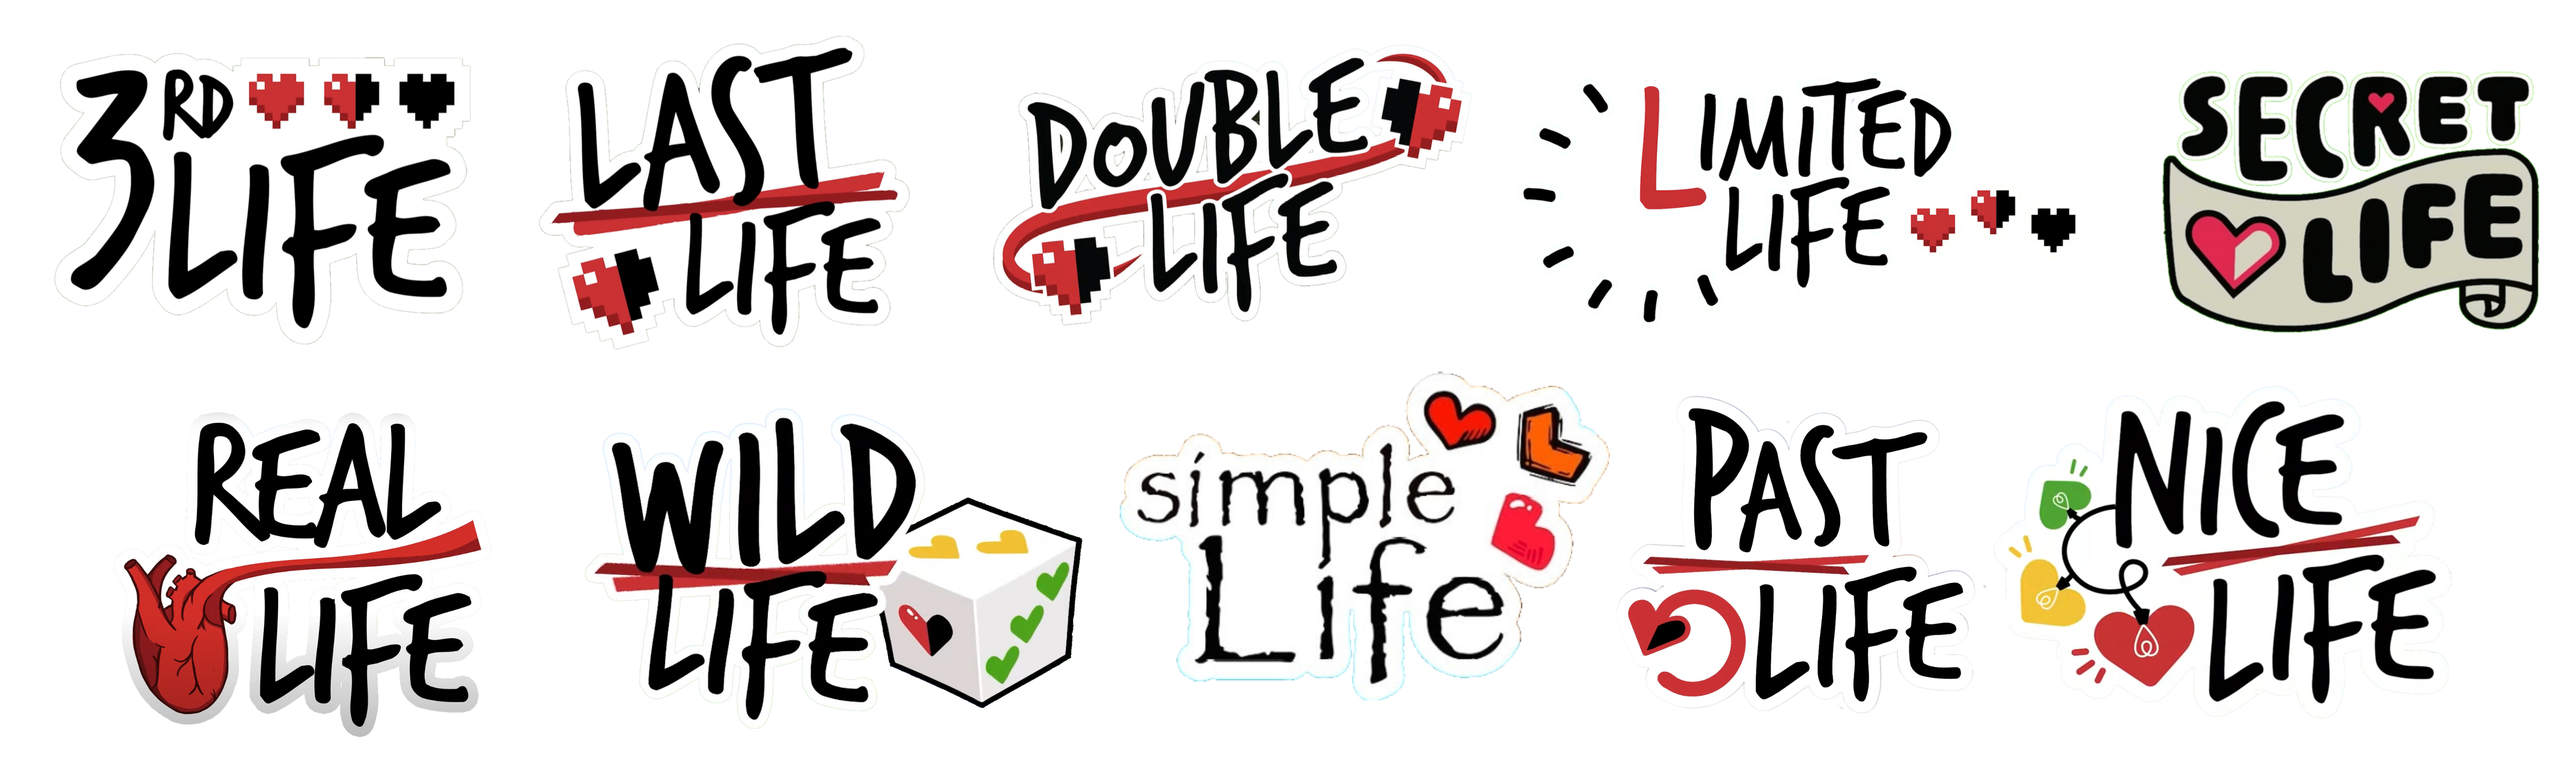
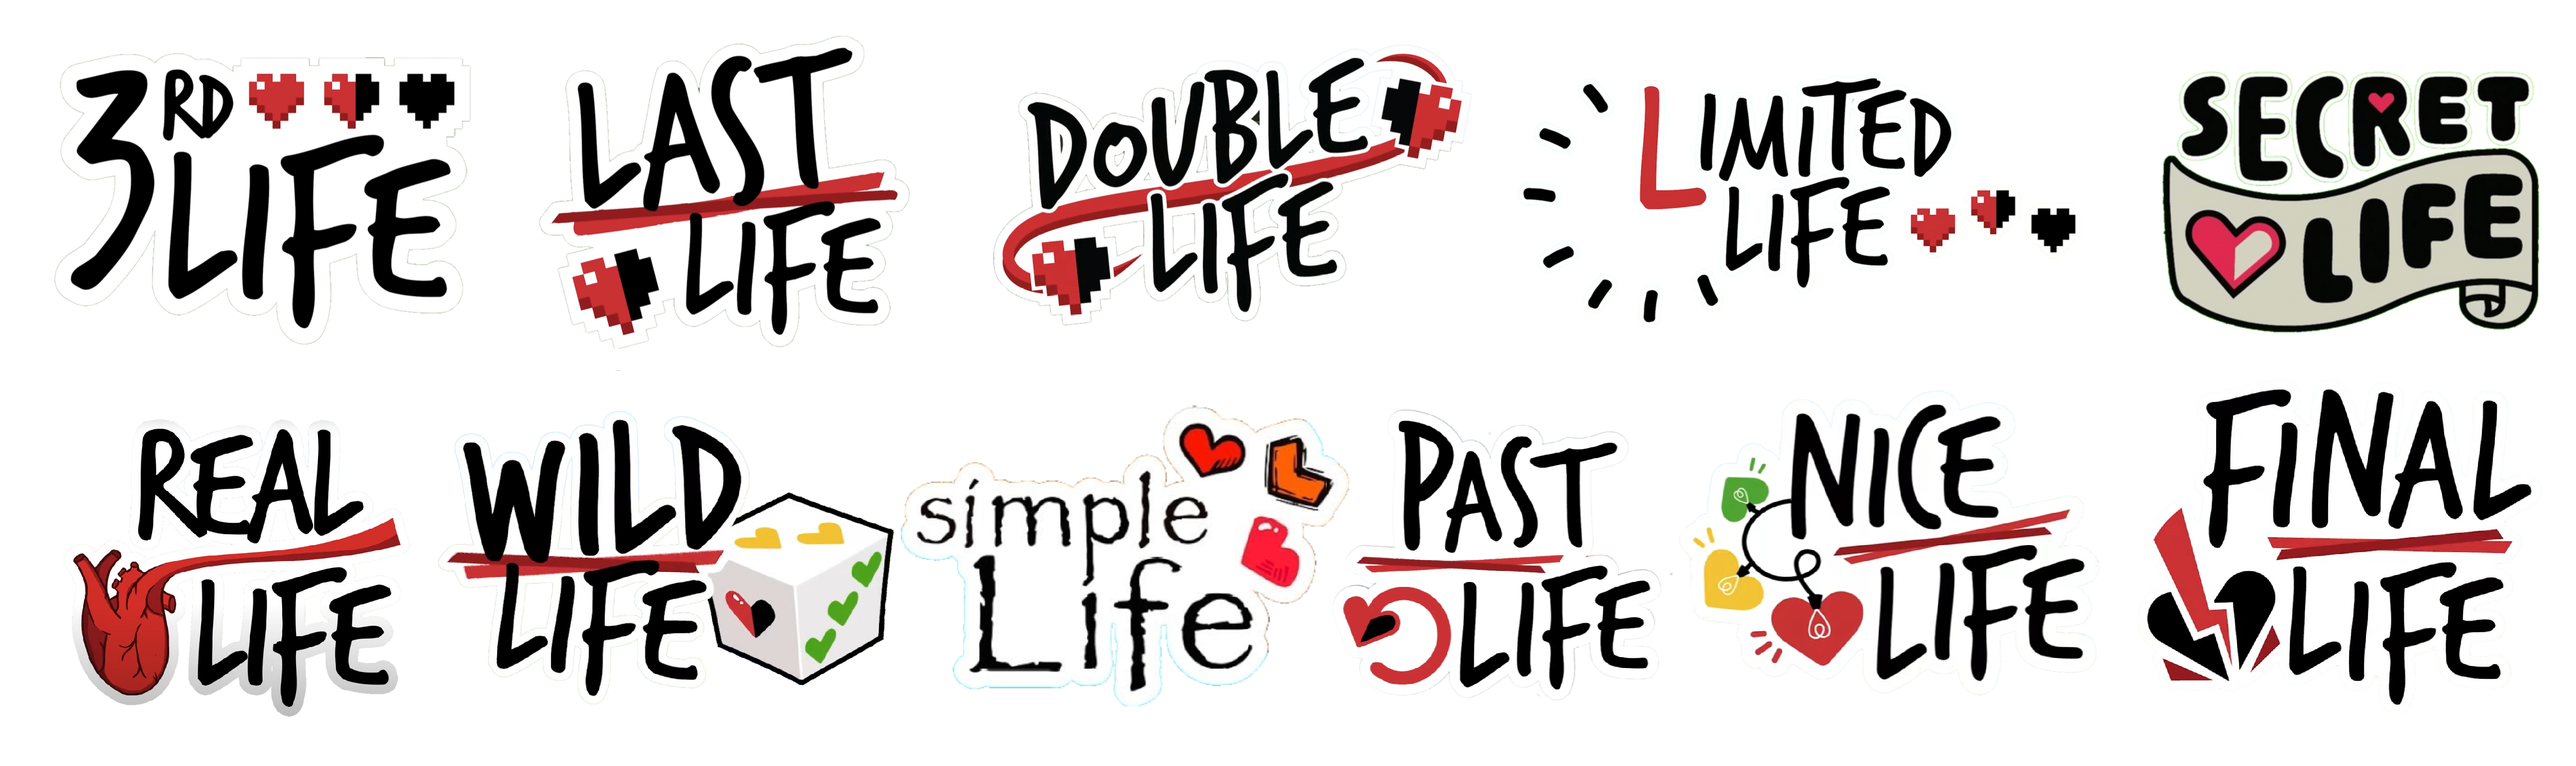
Final Life initial

Changed region(s): [[0.0311, 0.4987, 0.9954, 0.9662]]

diff --git a/src/main/java/net/mat0u5/lifeseries/seasons/season/finallife/FinalLifeConfig.java b/src/main/java/net/mat0u5/lifeseries/seasons/season/finallife/FinalLifeConfig.java
@@ -1,0 +1,66 @@
+package net.mat0u5.lifeseries.seasons.season.finallife;
+
+import net.mat0u5.lifeseries.config.SeasonConfig;
+import net.mat0u5.lifeseries.seasons.season.Seasons;
+
+import java.util.List;
+
+public class FinalLifeConfig extends SeasonConfig {
+	public static final List<String> BLACKLISTED_ITEMS = List.of(
+			"lectern",
+			"bookshelf",
+			//? if >= 1.21
+			"mace",
+			"end_crystal",
+			"#minecraft:head_armor",
+			//? if >= 1.21.11
+			"#minecraft:spears",
+			"elytra"
+	);
+
+	public static final List<String> BLACKLISTED_BLOCKS = List.of(
+			"lectern",
+			"bookshelf"
+	);
+	public static final List<String> CLAMPED_ENCHANTMENTS = List.of(
+			"sharpness",
+			"smite",
+			"bane_of_arthropods",
+			"fire_aspect",
+			"knockback",
+			//? if <= 1.20.3 {
+			//"sweeping",
+			//?} else {
+			"sweeping_edge",
+			//?}
+
+			"power",
+			"punch",
+
+			"protection",
+			"projectile_protection",
+			"blast_protection",
+			"fire_protection",
+			"feather_falling",
+			"thorns",
+
+			//? if >= 1.21 {
+			"breach",
+			"density",
+			"wind_burst",
+			//?}
+
+			"multishot",
+			"piercing",
+			"quick_charge"
+	);
+
+	protected FinalLifeConfig() {
+		super(Seasons.FINAL_LIFE);
+		BLACKLIST_ITEMS.defaultValue(BLACKLISTED_ITEMS);
+		BLACKLIST_BLOCKS.defaultValue(BLACKLISTED_BLOCKS);
+		BLACKLIST_CLAMPED_ENCHANTS_LEVEL_1.defaultValue(CLAMPED_ENCHANTMENTS);
+		BLACKLIST_RECIPES.defaultValue(List.of("enchanting_table"));
+		DEFAULT_LIVES.defaultValue(6);
+	}
+}

diff --git a/src/main/java/net/mat0u5/lifeseries/seasons/season/Seasons.java b/src/main/java/net/mat0u5/lifeseries/seasons/season/Seasons.java
@@ -3,6 +3,7 @@ package net.mat0u5.lifeseries.seasons.season;
 import net.mat0u5.lifeseries.seasons.season.aprilfools.reallife.RealLife;
 import net.mat0u5.lifeseries.seasons.season.aprilfools.simplelife.SimpleLife;
 import net.mat0u5.lifeseries.seasons.season.doublelife.DoubleLife;
+import net.mat0u5.lifeseries.seasons.season.finallife.FinalLife;
 import net.mat0u5.lifeseries.seasons.season.lastlife.LastLife;
 import net.mat0u5.lifeseries.seasons.season.limitedlife.LimitedLife;
 import net.mat0u5.lifeseries.seasons.season.nicelife.NiceLife;
@@ -28,6 +29,7 @@ public enum Seasons {
     WILD_LIFE("Wild Life", "wildlife"),
     PAST_LIFE("Past Life", "pastlife"),
     NICE_LIFE("Nice Life", "nicelife"),
+    FINAL_LIFE("Final Life", "finallife"),
 
     REAL_LIFE("Real Life", "reallife"),
     SIMPLE_LIFE("Simple Life", "simplelife");
@@ -57,6 +59,7 @@ public enum Seasons {
         if (this == WILD_LIFE) return new WildLife();
         if (this == PAST_LIFE) return new PastLife();
         if (this == NICE_LIFE) return new NiceLife();
+        if (this == FINAL_LIFE) return new FinalLife();
 
         if (this == REAL_LIFE) return new RealLife();
         if (this == SIMPLE_LIFE) return new SimpleLife();
@@ -70,6 +73,7 @@ public enum Seasons {
     public boolean requiresClient() {
         if (this == WILD_LIFE) return true;
         if (this == NICE_LIFE) return true;
+        if (this == FINAL_LIFE) return true;
         return false;
     }
 

diff --git a/src/main/java/net/mat0u5/lifeseries/seasons/util/LivesManager.java b/src/main/java/net/mat0u5/lifeseries/seasons/util/LivesManager.java
@@ -137,6 +137,14 @@ public class LivesManager {
     }
 
     public int defaultTeamCanKill(String teamName) {
+        if (LifeSeries.isSeason(Seasons.FINAL_LIFE)) {
+            if (teamName.equals("lives_2")) {
+                return 3;
+            }
+            if (teamName.equals("lives_3") || teamName.equals("lives_4")) {
+                return 5;
+            }
+        }
         if (LifeSeries.isSeason(Seasons.WILD_LIFE)) {
             if (teamName.equals("lives_2")) {
                 return 3;
@@ -154,6 +162,9 @@ public class LivesManager {
     }
 
     public int defaultTeamGainLife(String teamName) {
+        if (LifeSeries.isSeason(Seasons.FINAL_LIFE)) {
+            //TODO - unknown
+        }
         if (LifeSeries.isSeason(Seasons.WILD_LIFE)) {
             if (teamName.equals("lives_1") || teamName.equals("lives_2")) {
                 return 4;

diff --git a/src/main/java/net/mat0u5/lifeseries/seasons/season/finallife/FinalLifeLivesManager.java b/src/main/java/net/mat0u5/lifeseries/seasons/season/finallife/FinalLifeLivesManager.java
@@ -1,0 +1,22 @@
+package net.mat0u5.lifeseries.seasons.season.finallife;
+
+import net.mat0u5.lifeseries.seasons.util.LivesManager;
+import net.minecraft.world.scores.TeamColor;
+
+import java.util.List;
+
+public class FinalLifeLivesManager extends LivesManager {
+	@Override
+	public List<LivesTeam> getDefaultTeams() {
+		return List.of(
+				new LivesTeam("lives_null", "Unassigned", TeamColor.GRAY),
+				new LivesTeam("lives_0", "Dead", TeamColor.DARK_GRAY),
+				new LivesTeam("lives_1", "Dark Red", TeamColor.DARK_RED),
+				new LivesTeam("lives_2", "Red", TeamColor.RED),
+				new LivesTeam("lives_3", "Orange", TeamColor.GOLD),
+				new LivesTeam("lives_4", "Yellow", TeamColor.YELLOW),
+				new LivesTeam("lives_5", "Green", TeamColor.GREEN),
+				new LivesTeam("lives_6", "Dark Green", TeamColor.DARK_GREEN)
+		);
+	}
+}

diff --git a/src/main/java/net/mat0u5/lifeseries/seasons/season/finallife/FinalLife.java b/src/main/java/net/mat0u5/lifeseries/seasons/season/finallife/FinalLife.java
@@ -1,0 +1,23 @@
+package net.mat0u5.lifeseries.seasons.season.finallife;
+
+import net.mat0u5.lifeseries.config.SeasonConfig;
+import net.mat0u5.lifeseries.seasons.season.Season;
+import net.mat0u5.lifeseries.seasons.season.Seasons;
+import net.mat0u5.lifeseries.seasons.util.LivesManager;
+
+public class FinalLife extends Season {
+	@Override
+	public Seasons getSeason() {
+		return Seasons.FINAL_LIFE;
+	}
+
+	@Override
+	public SeasonConfig createConfig() {
+		return new FinalLifeConfig();
+	}
+
+	@Override
+	public LivesManager createLivesManager() {
+		return new FinalLifeLivesManager();
+	}
+}

diff --git a/src/main/java/net/mat0u5/lifeseries/client/gui/seasons/ChooseSeasonScreen.java b/src/main/java/net/mat0u5/lifeseries/client/gui/seasons/ChooseSeasonScreen.java
@@ -29,7 +29,7 @@ public class ChooseSeasonScreen extends DefaultScreen {
     private List<SeasonRegion> seasonRegions = new ArrayList<>();
 
     public ChooseSeasonScreen(boolean hasSelectedBefore) {
-        super(Component.literal("Choose Season Screen"), 320, 185);
+        super(Component.literal("Choose Season Screen"), 360, 185);
         this.hasSelectedBefore = hasSelectedBefore;
     }
 

diff --git a/README.md b/README.md
@@ -32,9 +32,9 @@ Have questions, suggestions or bug fixes? Join the [Life Series Mod Discord serv
 ## Feature Complete
 This mod faithfully recreates all the seasons of the Life Series - everything works exactly as in the originals.
 
-| Third Life | Last Life | Double Life | Limited Life | Secret Life | **Wild Life** | Past Life | **Nice Life** |
-|------------|-----------|-------------|--------------|-------------|---------------|-----------|---------------|
-| Completed  | Completed | Completed   | Completed    | Completed   | Completed     | Completed | Completed     |
+| Third Life | Last Life | Double Life | Limited Life | Secret Life | **Wild Life** | Past Life | **Nice Life** | **Final Life** |
+|------------|-----------|-------------|--------------|-------------|---------------|-----------|---------------|----------------|
+| Completed  | Completed | Completed   | Completed    | Completed   | Completed     | Completed | Completed     | In Progress    |
 
 All in a single mod. No more shady, unmaintained, buggy datapacks.
 
